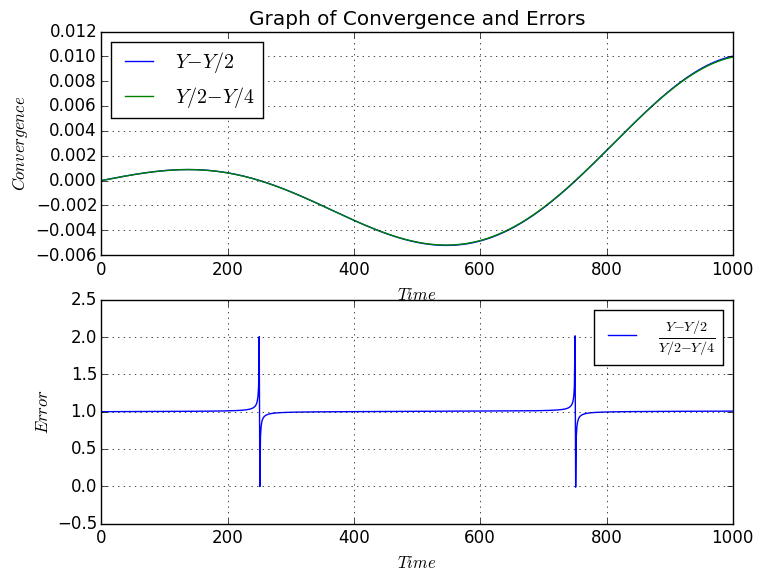
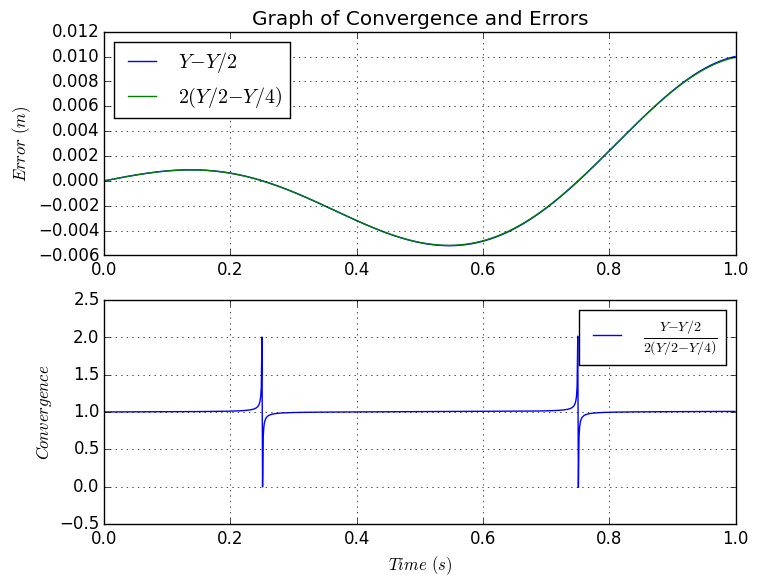
Updtate #1

diff --git a/Assignment 1.py b/Assignment 1.py
@@ -55,21 +55,22 @@ ic = np.array([ti, yi, ypi, l])  # initial time, final time, initial y and lambd
 R = [ODEsolve(Tmax, N, f, Euler, ic) for i,N in enumerate(n)]
 
 def f1(t,l): 
-    return np.cos(l*t)    # eq of d^2y/dt^2
+    return np.cos(l*t)    # exact solution of d^2y/dt^2
+
+F = [r'$\Delta t$',r'$\Delta t/2$',r'$\Delta t/4$']
 
 for i in range(len(R)):
     T = R[i][1]; Y = R[i][0][0]
     plt.subplot(2,1,1)
-    plt.plot(T, Y, label=r'$dt = %.5f$' %(Tmax/n[i]))
-    plt.xlabel(r'$Time$')
-    plt.ylabel(r'$Y$') 
-    plt.title('Graph of ODE')
+    plt.plot(T, Y, label=r'$\Delta t = %.5f$' %(Tmax/n[i])) 
+    plt.ylabel(r'$Y$ $(m)$') 
+    plt.title('Graph of ODE using Euler method')
     plt.legend(loc='best') 
     plt.grid() 
     plt.subplot(2,1,2)
-    plt.plot(T, f1(T,w)-Y, label=r'$delta$ $t = %.5f$' %(Tmax/n[i]) )
-    plt.xlabel(r'$Time$')
-    plt.ylabel(r'$Error$') 
+    plt.plot(T, f1(T,w)-Y, label=F[i] )
+    plt.xlabel(r'$Time$ $(s)$')
+    plt.ylabel(r'$Error$ $(m)$') 
     plt.legend(loc='best')
     plt.grid() 
 plt.savefig('Graph of ODE.png', bbox_inches='tight')
@@ -88,20 +89,20 @@ d1,d2 = ConvergenceTest(ODEsolve, Tmax, n, f, ic, Euler, 1)
 
 plt.figure()
 plt.subplot(2,1,1)
-plt.plot(d1, label=r'$Y - Y/2$')
-plt.plot(d2, label=r'$Y/2 - Y/4$')
-plt.xlabel(r'$Time$')
-plt.ylabel(r'$Convergence$') 
+plt.plot(T[::4],d1, label=r'$Y - Y/2$')
+plt.plot(T[::4],d2, label=r'$2\left(Y/2 - Y/4\right)$')
+plt.ylabel(r'$Error$ $(m)$') 
 plt.title('Graph of Convergence and Errors')
 plt.legend(loc='best') 
 plt.grid() 
 plt.subplot(2,1,2)
-plt.plot(d1/d2, label=r'$\frac{Y - Y/2}{Y/2 - Y/4}$')
-plt.xlabel(r'$Time$')
-plt.ylabel(r'$Error$') 
+plt.plot(T[::4],d1/d2, label=r'$\frac{Y - Y/2}{2\left(Y/2 - Y/4\right)}$')
+plt.xlabel(r'$Time$ $(s)$')
+plt.ylabel(r'$Convergence$') 
 plt.legend(loc='best')
 plt.grid() 
 plt.savefig('Graph of Convergence.png', bbox_inches='tight')  
+
 dt = (1/2)**np.linspace(1,18,18); Na = Tmax/dt
 
 A = [ODEsolve(Tmax, n, f, Euler, ic) for i, n in enumerate(Na)] 
